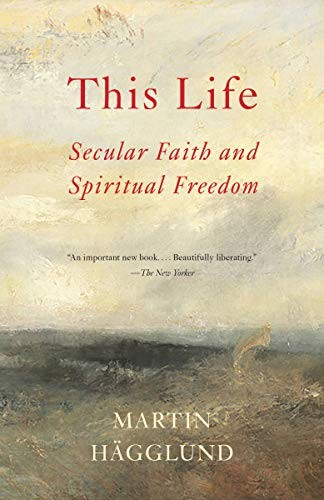
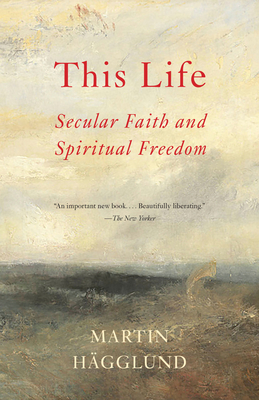
get book covers from goodreads

diff --git a/index.ts b/index.ts
@@ -1,6 +1,7 @@
 import dayjs from "dayjs";
 import { getAverageColor } from "fast-average-color-node";
 import type { Book } from "./site/src/content/config";
+import { getGoodreadsCover } from "./goodreads";
 
 const isbn = Bun.argv[2];
 
@@ -22,14 +23,21 @@ const fullWork = await fetch(
   `https://openlibrary.org${data.works?.[0].key}.json`
 );
 const work = await fullWork.json();
-console.log({ work });
 
-const image = await fetch(
-  `https://covers.openlibrary.org/b/isbn/${isbn}-L.jpg`
-);
+// const image = await fetch(
+//   `https://covers.openlibrary.org/b/isbn/${isbn}-L.jpg`
+// );
+
+const imageSrc = await getGoodreadsCover(isbn);
+
+const image = imageSrc
+  ? await fetch(imageSrc)
+  : await fetch(`https://covers.openlibrary.org/b/isbn/${isbn}-L.jpg`);
+
 await Bun.write(`./site/src/content/library/${isbn}.jpg`, image);
 const color = await getAverageColor(`./site/src/content/library/${isbn}.jpg`);
 // save image to output folder with isbn as name
+
 // get colors from image
 // save colors to output folder with isbn as name
 

diff --git a/site/src/content/config.ts b/site/src/content/config.ts
@@ -11,6 +11,13 @@ export const colorSchema = z.object({
   error: z.unknown().optional(),
 });
 
+// all in cm
+export const dimensionsSchema = z.object({
+  width: z.number(),
+  height: z.number(),
+  thickness: z.number(),
+});
+
 export type Color = z.infer<typeof colorSchema>;
 
 export const BookSchema = z.object({
@@ -25,6 +32,7 @@ export const BookSchema = z.object({
   image: z.string(),
   color: colorSchema,
   weight: z.number().nullish(),
+  dimensions: dimensionsSchema.optional(),
 });
 
 export type Book = z.infer<typeof BookSchema>;

diff --git a/goodreads.ts b/goodreads.ts
@@ -1,0 +1,14 @@
+// scrape goodreads for the image cover
+import { parse } from "node-html-parser";
+
+export async function getGoodreadsCover(isbn: string) {
+  const res = await fetch(`https://www.goodreads.com/book/isbn/${isbn}`);
+
+  const text = await res.text();
+  const parsed = parse(text);
+  const image = parsed.querySelector(".BookCover img");
+
+  if (image) {
+    return image.getAttribute("src");
+  }
+}

diff --git a/todo.md b/todo.md
@@ -1,0 +1,1 @@
+create localhost server to make this even easier... point to folder and read/write/update data from there.
